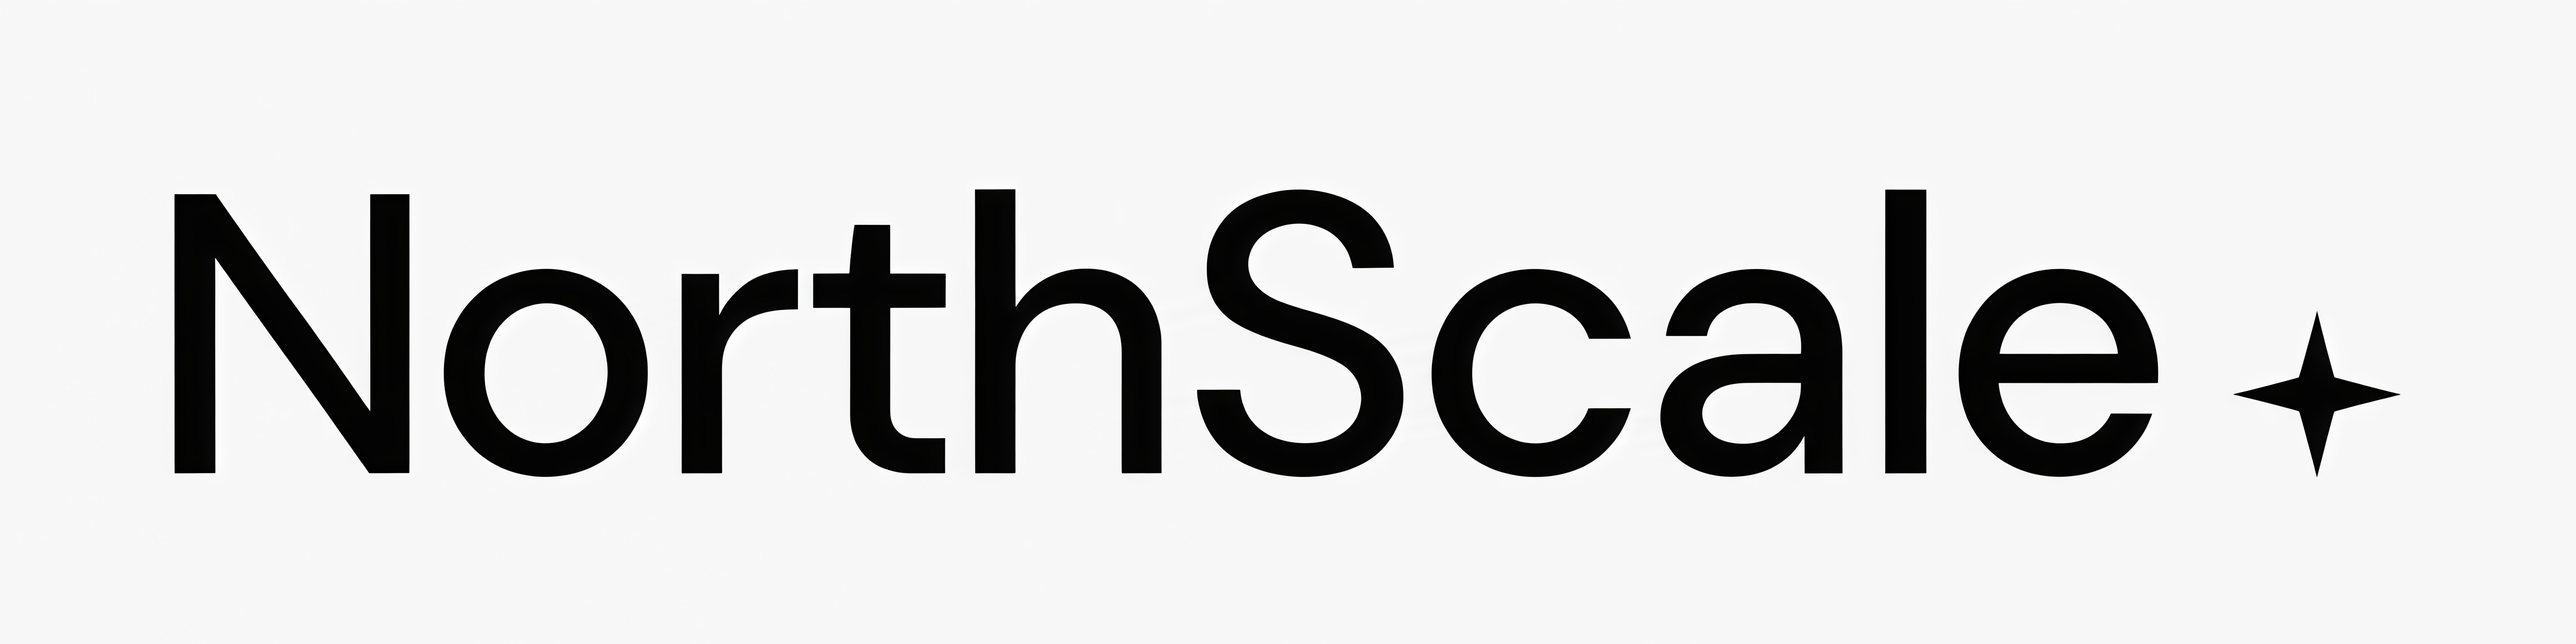
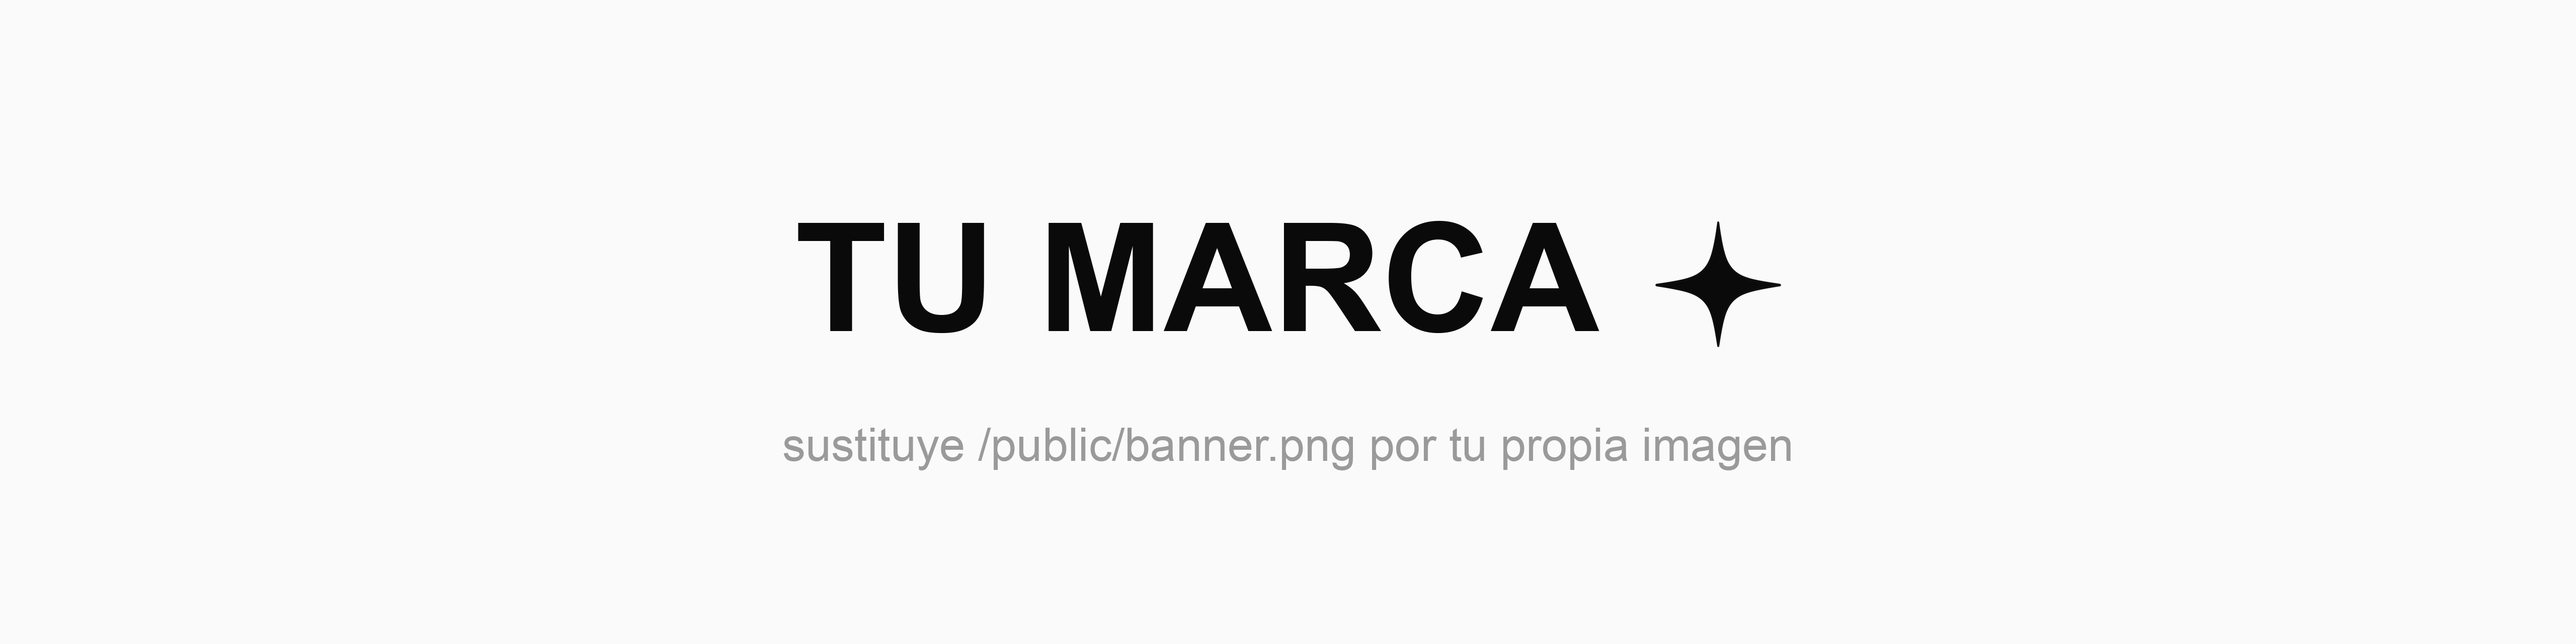
Quita la marca NorthScale de los assets y da título propio a cada página
Los iconos y el banner de Open Graph eran los de NorthScale: quien
desplegaba la plantilla sin tocarlos publicaba la "N" como favicon y el
wordmark ajeno como tarjeta social. Ahora son neutros y el banner dice
qué archivo hay que sustituir.

De paso, dos arreglos que valen para cualquier instalación: `title`
vuelve a tener `template`, así que Contacto, Auditoría, Privacidad y
Términos dejan de compartir el mismo título con la home, y un stat con
valor 0 vuelve a pintarse en el contador animado.

Claude-Session: https://claude.ai/code/session_0182UAP41Y3TtjCmkjPZV5Fv

Changed region(s): [[0.0625, 0.2812, 0.8438, 0.75], [0.875, 0.5, 0.9375, 0.7188]]

diff --git a/src/app/layout.tsx b/src/app/layout.tsx
@@ -10,9 +10,12 @@ import "./globals.css";
 
 export const metadata: Metadata = {
   metadataBase: new URL(`https://${site.domain}`),
-  // Título único para todas las páginas. Sin `template`, para que ninguna
-  // pueda añadirle un sufijo.
-  title: `${site.name} – Agencia de IA`,
+  // `default` lo usa la home; `template` deja que cada página aporte el suyo
+  // ("Contacto · TU MARCA"). Una página sin `title` cae en el `default`.
+  title: {
+    default: `${site.name} — ${site.tagline.replace(/\.$/, "")}`,
+    template: `%s · ${site.name}`,
+  },
   description:
     "Consultora especializada en IA, automatización y desarrollo de software a medida para empresas. Diseñamos e implementamos sistemas reales que ahorran tiempo, mejoran procesos y escalan tu negocio.",
   applicationName: site.name,

diff --git a/src/components/sections/About.tsx b/src/components/sections/About.tsx
@@ -95,6 +95,11 @@ function Stat({ value, label, delay }: { value: string; label: string; delay: nu
     if (!numericMatch) return;
     const [, sign, numStr, suffix] = numericMatch;
     const target = parseInt(numStr, 10);
+    // Sin esto, un stat con valor 0 nunca llega a pintarse.
+    if (target === 0) {
+      setDisplay(`${sign}0${suffix}`);
+      return;
+    }
     const startTime = performance.now();
     const duration = 1100;
     let raf = 0;

diff --git a/src/app/auditoria/page.tsx b/src/app/auditoria/page.tsx
@@ -4,6 +4,7 @@ import { AuditForm } from "@/components/AuditForm";
 import { auditoria, site } from "@/lib/content";
 
 export const metadata: Metadata = {
+  title: "Auditoría gratuita",
   description:
     "Solicita una auditoría gratuita de 30-45 minutos para detectar dónde la IA o la automatización pueden ahorrarte tiempo y mejorar tu operación.",
   alternates: { canonical: "/auditoria" },

diff --git a/src/app/contacto/page.tsx b/src/app/contacto/page.tsx
@@ -3,6 +3,7 @@ import { Reveal } from "@/components/Reveal";
 import { ContactForm } from "@/components/ContactForm";
 
 export const metadata: Metadata = {
+  title: "Contacto",
   description:
     "Cuéntanos sobre tu negocio y cómo podemos ayudarte con IA, automatización o software a medida.",
   alternates: { canonical: "/contacto" },

diff --git a/src/app/privacidad/page.tsx b/src/app/privacidad/page.tsx
@@ -2,6 +2,7 @@ import type { Metadata } from "next";
 import { site } from "@/lib/content";
 
 export const metadata: Metadata = {
+  title: "Política de Privacidad",
   description: `Política de privacidad de ${site.name}. Información sobre el tratamiento de datos personales.`,
   alternates: { canonical: "/privacidad" },
 };

diff --git a/src/app/terminos/page.tsx b/src/app/terminos/page.tsx
@@ -2,6 +2,7 @@ import type { Metadata } from "next";
 import { site } from "@/lib/content";
 
 export const metadata: Metadata = {
+  title: "Términos y Condiciones",
   description: `Términos y condiciones de uso de ${site.name}.`,
   alternates: { canonical: "/terminos" },
 };
